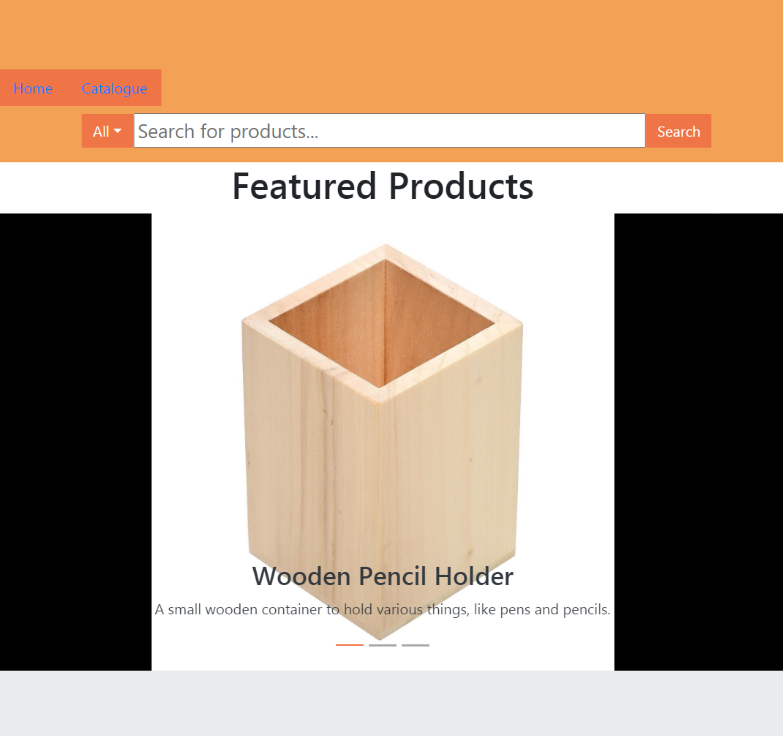
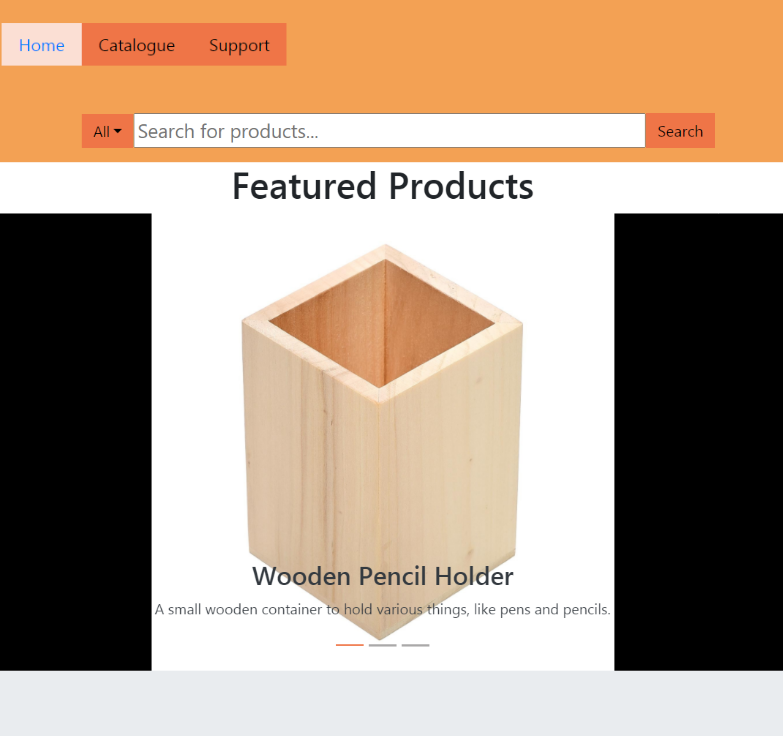
Changed mobile title font sizes

Changed region(s): [[0.0, 0.0312, 0.3678, 0.1875], [0.8276, 0.1562, 0.9195, 0.1875]]

diff --git a/public/css/style.css b/public/css/style.css
@@ -300,6 +300,9 @@ img {
   h2 {
     font-size: 2rem; }
 
+  .display-4 {
+    font-size: 2rem; }
+
   .lead,
   .col-lg {
     font-size: 1rem; }
@@ -314,7 +317,7 @@ img {
   a,
   h2 a,
   .close {
-    font-size: 3rem; }
+    font-size: 2rem; }
 
   .changePreview {
     width: 32px;

diff --git a/public/css/style.scss b/public/css/style.scss
@@ -372,6 +372,10 @@ img {
     font-size: 2rem;
   }
 
+  .display-4 {
+    font-size: 2rem;
+  }
+
   //Font size for main fonts
   .lead,
   .col-lg {
@@ -391,7 +395,7 @@ img {
   a,
   h2 a,
   .close {
-    font-size: 3rem;
+    font-size: 2rem;
   }
 
   //Buttons for image previews
